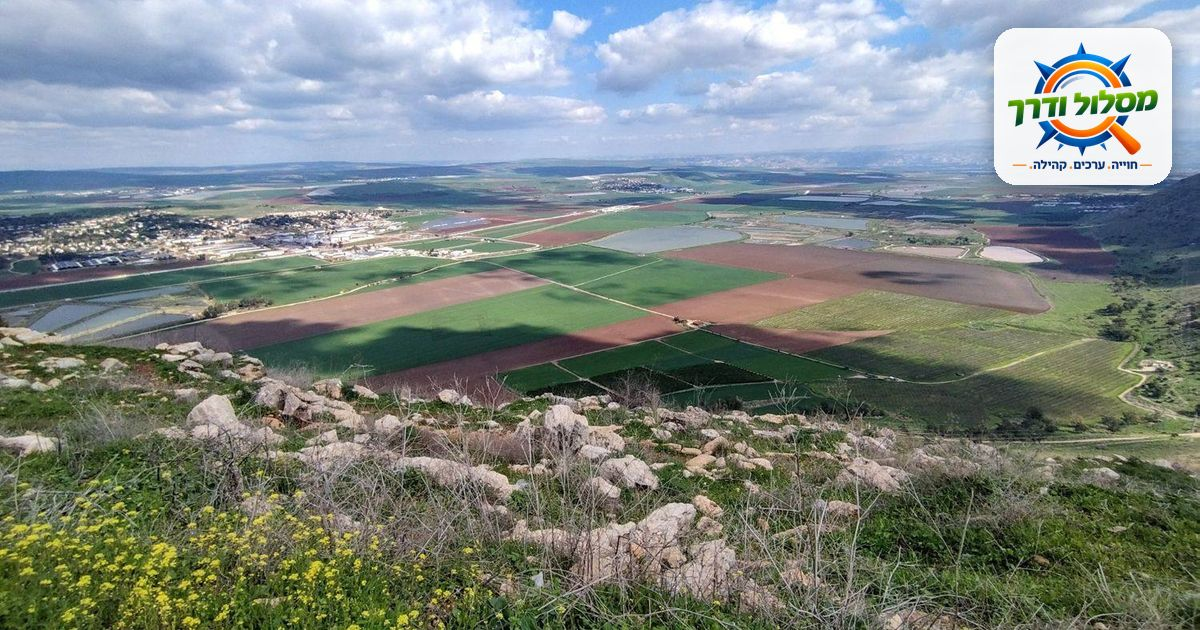
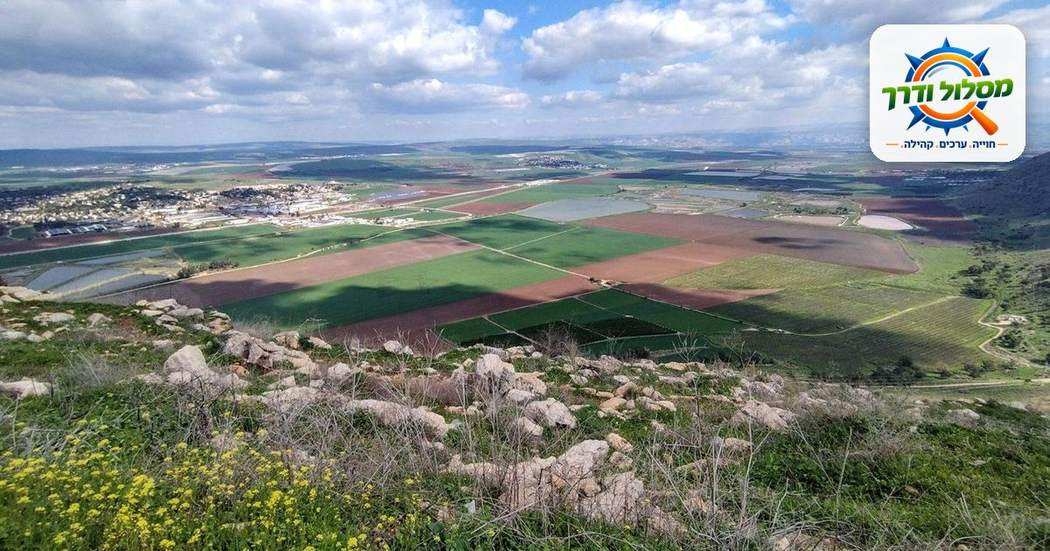
Share images under 115KB so WhatsApp shows the large preview
Claude-Session: https://claude.ai/code/session_01EeqeYiZ5VECgk1dfuzWJxN

diff --git a/tanach-tashach.html b/tanach-tashach.html
@@ -9,9 +9,9 @@
 <meta property="og:title" content="מתנ&quot;ך ועד תש&quot;ח – מסלול ודרך">
 <meta property="og:description" content="בעקבות גיבורי וגיבורות העמק: 5 סיורים בעמק יזרעאל ובגלבוע, כל אחד עומד בפני עצמו. יש מסלול לחיילים, למשפחות, לגמלאים, למחפשי אתגר ולזוגות.">
 <meta property="og:url" content="https://maslul-derech.co.il/tanach-tashach.html">
-<meta property="og:image" content="https://maslul-derech.co.il/share-valley-view.jpg">
-<meta property="og:image:width" content="1200">
-<meta property="og:image:height" content="630">
+<meta property="og:image" content="https://maslul-derech.co.il/share-valley-view.jpg?v=5">
+<meta property="og:image:width" content="1050">
+<meta property="og:image:height" content="551">
 <meta name="twitter:card" content="summary_large_image">
 <link rel="canonical" href="https://maslul-derech.co.il/tanach-tashach.html">
 </head><body>

diff --git a/celebrate.html b/celebrate.html
@@ -9,9 +9,9 @@
 <meta property="og:title" content="טיולים בהתאמה אישית – מסלול ודרך">
 <meta property="og:description" content="יש לכם סיבה לחגוג? יש לנו מסלול. יום הולדת עגול, שנת בר/בת מצווה, בעקבות ספר, שורשים או יום גיבוש. טיול שנבנה סביב הסיפור שלכם.">
 <meta property="og:url" content="https://maslul-derech.co.il/celebrate.html">
-<meta property="og:image" content="https://maslul-derech.co.il/share-celebrate-hero.jpg">
-<meta property="og:image:width" content="1200">
-<meta property="og:image:height" content="630">
+<meta property="og:image" content="https://maslul-derech.co.il/share-celebrate-hero.jpg?v=5">
+<meta property="og:image:width" content="1050">
+<meta property="og:image:height" content="551">
 <meta name="twitter:card" content="summary_large_image">
 <link rel="canonical" href="https://maslul-derech.co.il/celebrate.html">
 </head><body>

diff --git a/activities.html b/activities.html
@@ -9,9 +9,9 @@
 <meta property="og:title" content="פעילויות נוספות – מסלול ודרך">
 <meta property="og:description" content="רוצים להוסיף לטיול עוד משהו? סדנת צילום בסלולר, בינגו, יצירה מהטבע, יוגה בנוף, ארוחה בשטח, ובעצם כל מה שהקבוצה רוצה.">
 <meta property="og:url" content="https://maslul-derech.co.il/activities.html">
-<meta property="og:image" content="https://maslul-derech.co.il/share-exp-hero.jpg">
-<meta property="og:image:width" content="1200">
-<meta property="og:image:height" content="630">
+<meta property="og:image" content="https://maslul-derech.co.il/share-exp-hero.jpg?v=5">
+<meta property="og:image:width" content="960">
+<meta property="og:image:height" content="504">
 <meta name="twitter:card" content="summary_large_image">
 <link rel="canonical" href="https://maslul-derech.co.il/activities.html">
 </head><body>

diff --git a/tasting.html b/tasting.html
@@ -9,9 +9,9 @@
 <meta property="og:title" content="סיורי טעימות לחיילים – מסלול ודרך">
 <meta property="og:description" content="שוק, טעימות וסיפור ישראלי: חוויה מגבשת לחיילים ולמפקדים. כשעה וחצי, בכל הארץ. ספק מוכר של משרד הביטחון.">
 <meta property="og:url" content="https://maslul-derech.co.il/tasting.html">
-<meta property="og:image" content="https://maslul-derech.co.il/share-tasting-ai-hummus.jpg">
-<meta property="og:image:width" content="1200">
-<meta property="og:image:height" content="630">
+<meta property="og:image" content="https://maslul-derech.co.il/share-tasting-ai-hummus.jpg?v=5">
+<meta property="og:image:width" content="1050">
+<meta property="og:image:height" content="551">
 <meta name="twitter:card" content="summary_large_image">
 <link rel="canonical" href="https://maslul-derech.co.il/tasting.html">
 </head><body>

diff --git a/soldiers.html b/soldiers.html
@@ -9,9 +9,9 @@
 <meta property="og:title" content="סיורים לחיילים ויחידות – מסלול ודרך">
 <meta property="og:description" content="גאוות יחידה מתחילה בשטח: בעקבות גיבורי העמק בתל יזרעאל ובעין יזרעאל, ומסלולי שטח בגלבוע ובנחל תבור.">
 <meta property="og:url" content="https://maslul-derech.co.il/soldiers.html">
-<meta property="og:image" content="https://maslul-derech.co.il/share-soldiers-wf.jpg">
-<meta property="og:image:width" content="1200">
-<meta property="og:image:height" content="630">
+<meta property="og:image" content="https://maslul-derech.co.il/share-soldiers-wf.jpg?v=5">
+<meta property="og:image:width" content="1050">
+<meta property="og:image:height" content="551">
 <meta name="twitter:card" content="summary_large_image">
 <link rel="canonical" href="https://maslul-derech.co.il/soldiers.html">
 </head><body>

diff --git a/families.html b/families.html
@@ -9,9 +9,9 @@
 <meta property="og:title" content="טיולי משפחות – מסלול ודרך">
 <meta property="og:description" content="יום כיף לכל המשפחה: הסודות של תל יזרעאל עם סדנת יצירה מהטבע לילדים, או מסלולי מים מאתגרים בגלבוע ובנחל תבור.">
 <meta property="og:url" content="https://maslul-derech.co.il/families.html">
-<meta property="og:image" content="https://maslul-derech.co.il/share-families-log.jpg">
-<meta property="og:image:width" content="1200">
-<meta property="og:image:height" content="630">
+<meta property="og:image" content="https://maslul-derech.co.il/share-families-log.jpg?v=5">
+<meta property="og:image:width" content="960">
+<meta property="og:image:height" content="504">
 <meta name="twitter:card" content="summary_large_image">
 <link rel="canonical" href="https://maslul-derech.co.il/families.html">
 </head><body>

diff --git a/sejera.html b/sejera.html
@@ -9,9 +9,9 @@
 <meta property="og:title" content="בן גוריון בסג'רה – מסלול ודרך">
 <meta property="og:description" content="איפה בן גוריון הצעיר חרש את האדמה ושמר על המושבה? סיור מורשת בסג'רה, כולל כניסה לבסיס חוות השומר.">
 <meta property="og:url" content="https://maslul-derech.co.il/sejera.html">
-<meta property="og:image" content="https://maslul-derech.co.il/share-sejera-field.jpg">
-<meta property="og:image:width" content="1200">
-<meta property="og:image:height" content="630">
+<meta property="og:image" content="https://maslul-derech.co.il/share-sejera-field.jpg?v=5">
+<meta property="og:image:width" content="1050">
+<meta property="og:image:height" content="551">
 <meta name="twitter:card" content="summary_large_image">
 <link rel="canonical" href="https://maslul-derech.co.il/sejera.html">
 </head><body>

diff --git a/index.html b/index.html
@@ -9,9 +9,9 @@
 <meta property="og:title" content="מסלול ודרך | טיולים מודרכים עם אשד נבו">
 <meta property="og:description" content="מורה דרך מוסמך, בכל הארץ: משפחות, גיל שלישי, ועדים, נוער, חיילים ותיירות נכנסת. חוויה. ערכים. קהילה.">
 <meta property="og:url" content="https://maslul-derech.co.il/">
-<meta property="og:image" content="https://maslul-derech.co.il/share-wheat-path.jpg">
-<meta property="og:image:width" content="1200">
-<meta property="og:image:height" content="630">
+<meta property="og:image" content="https://maslul-derech.co.il/share-wheat-path.jpg?v=5">
+<meta property="og:image:width" content="960">
+<meta property="og:image:height" content="504">
 <meta name="twitter:card" content="summary_large_image">
 <link rel="canonical" href="https://maslul-derech.co.il/">
 </head><body>

diff --git a/tavor.html b/tavor.html
@@ -9,9 +9,9 @@
 <meta property="og:title" content="נחל תבור – מסלול ודרך">
 <meta property="og:description" content="מסלול מים מעגלי של כ־7 ק&quot;מ בקניון בזלת: גבים, מפל, ובחורף ובאביב גם שטיחי תורמוסים. למיטיבי לכת.">
 <meta property="og:url" content="https://maslul-derech.co.il/tavor.html">
-<meta property="og:image" content="https://maslul-derech.co.il/share-tavor-hero.jpg">
-<meta property="og:image:width" content="1200">
-<meta property="og:image:height" content="630">
+<meta property="og:image" content="https://maslul-derech.co.il/share-tavor-hero.jpg?v=5">
+<meta property="og:image:width" content="900">
+<meta property="og:image:height" content="473">
 <meta name="twitter:card" content="summary_large_image">
 <link rel="canonical" href="https://maslul-derech.co.il/tavor.html">
 </head><body>

diff --git a/contact.html b/contact.html
@@ -9,9 +9,9 @@
 <meta property="og:title" content="צור קשר – מסלול ודרך">
 <meta property="og:description" content="מוכנים לצאת למסע? ספרו לי מי אתם ומה מתאים לכם, ואחזור אליכם עם רעיון. ווטסאפ 052-9456936 או טופס פנייה.">
 <meta property="og:url" content="https://maslul-derech.co.il/contact.html">
-<meta property="og:image" content="https://maslul-derech.co.il/share-wetland.jpg">
-<meta property="og:image:width" content="1200">
-<meta property="og:image:height" content="630">
+<meta property="og:image" content="https://maslul-derech.co.il/share-wetland.jpg?v=5">
+<meta property="og:image:width" content="960">
+<meta property="og:image:height" content="504">
 <meta name="twitter:card" content="summary_large_image">
 <link rel="canonical" href="https://maslul-derech.co.il/contact.html">
 </head><body>

diff --git a/about.html b/about.html
@@ -9,7 +9,7 @@
 <meta property="og:title" content="נעים להכיר: אשד נבו – מסלול ודרך">
 <meta property="og:description" content="מורה דרך מוסמך, מדריך בעברית ובאנגלית, בגלבוע, בעמק ובכל הארץ ועד נפאל. כל טיול נתפר מחדש, לפי האנשים שיוצאים איתי לדרך.">
 <meta property="og:url" content="https://maslul-derech.co.il/about.html">
-<meta property="og:image" content="https://maslul-derech.co.il/share-about-portrait.jpg?v=2">
+<meta property="og:image" content="https://maslul-derech.co.il/share-about-portrait.jpg?v=5">
 <meta property="og:image:width" content="1200">
 <meta property="og:image:height" content="630">
 <meta name="twitter:card" content="summary_large_image">

diff --git a/stars.html b/stars.html
@@ -9,7 +9,7 @@
 <meta property="og:title" content="לילה של כוכבים ועקרבים – מסלול ודרך">
 <meta property="og:description" content="כשהשמש שוקעת בגלבוע, הלילה מתחיל: תצפית כוכבים, עקרבים שזוהרים באור סגול, חידונים, שירים וסיפורים. כשעתיים וחצי.">
 <meta property="og:url" content="https://maslul-derech.co.il/stars.html">
-<meta property="og:image" content="https://maslul-derech.co.il/share-stars-path-sunset.jpg">
+<meta property="og:image" content="https://maslul-derech.co.il/share-stars-path-sunset.jpg?v=5">
 <meta property="og:image:width" content="1200">
 <meta property="og:image:height" content="630">
 <meta name="twitter:card" content="summary_large_image">
